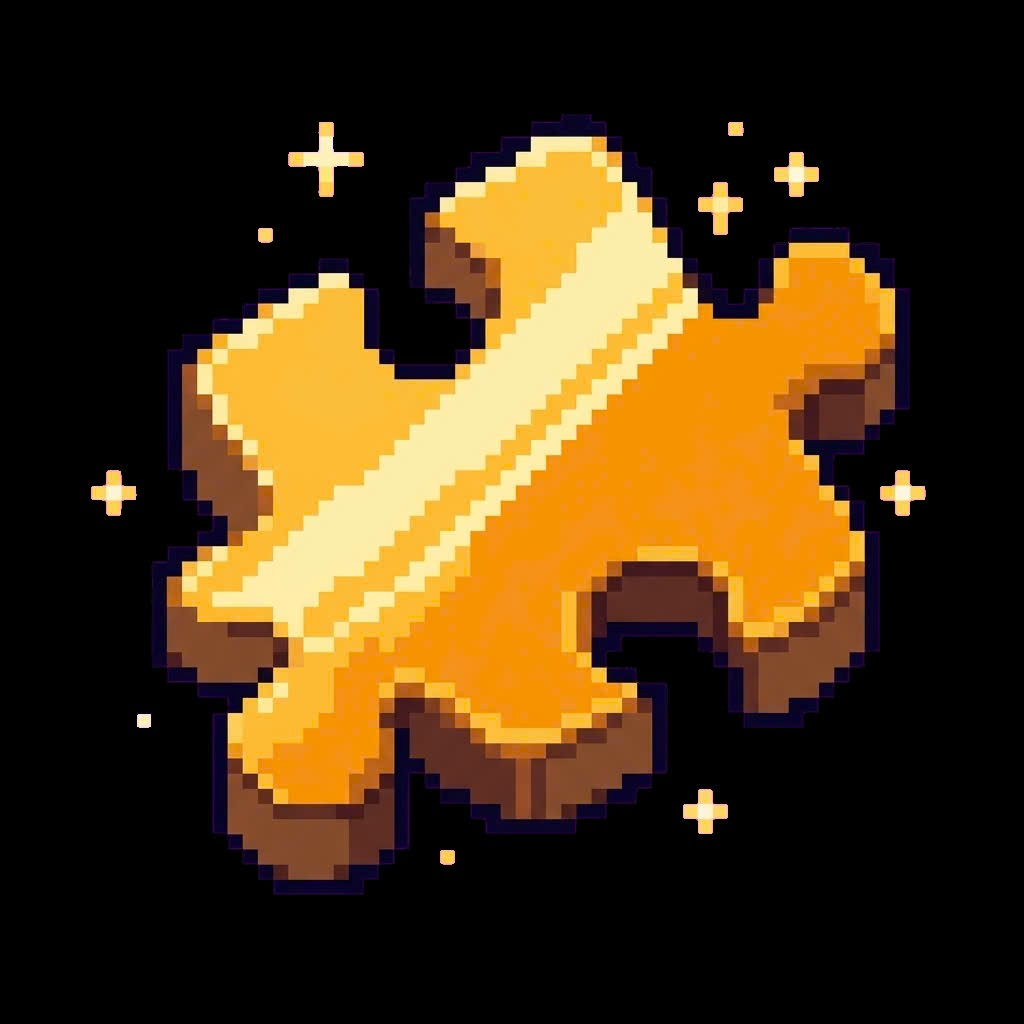
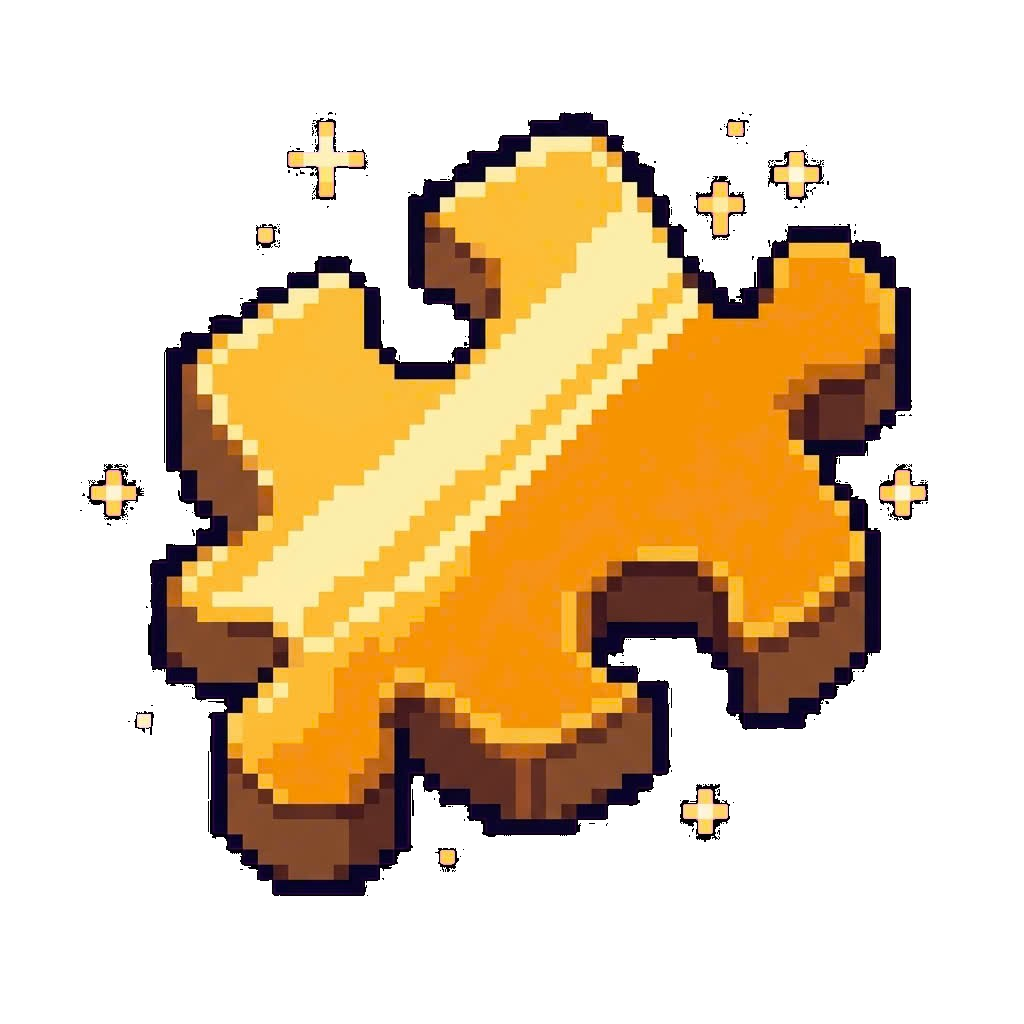
Update chest artwork and related UI components
Replit-Commit-Author: Agent

diff --git a/artifacts/vocabflow/components/CorviChestArtwork.tsx b/artifacts/vocabflow/components/CorviChestArtwork.tsx
@@ -1,77 +1,30 @@
-import React from 'react';
-import Svg, { Circle, Ellipse, Path, Rect } from 'react-native-svg';
+import React from "react";
+import { Image, Platform, type ImageStyle } from "react-native";
 
 interface CorviChestArtworkProps {
   size: number;
+  testID?: string;
 }
 
-/** Compact offline vector art for VocabFlow's glasses-wearing raven mascot. */
-export function CorviChestArtwork({ size }: CorviChestArtworkProps) {
+const pixelatedImageStyle =
+  Platform.OS === "web"
+    ? ({ imageRendering: "pixelated" } as unknown as ImageStyle)
+    : null;
+
+/** The supplied pixel-art chest used for Corvi's legendary chest. */
+export function CorviChestArtwork({ size, testID }: CorviChestArtworkProps) {
   return (
-    <Svg
-      width={size}
-      height={size}
-      viewBox="0 0 200 190"
+    <Image
+      testID={testID}
+      source={require("../assets/images/corvi-chest.png")}
       accessible
-      accessibilityLabel="Corvi, quạ đen bên rương Hắc Diệu Thạch"
-    >
-      <Ellipse cx="101" cy="174" rx="67" ry="8" fill="#08090B" opacity="0.48" />
-      <Path d="M23 83h28m124 0h19M25 45v33m7-33v33m7-33v33m7-33v33m112-33v33m7-33v33m7-33v33" fill="none" stroke="#424955" strokeWidth="2" opacity="0.72" />
-      <Path d="M22 43h33m104 0h33M20 85h35m104 0h35" fill="none" stroke="#767F8D" strokeWidth="2" opacity="0.72" />
-
-      <Path
-        d="M61 99c-13 1-27 13-34 28 18-6 31-5 43 1l13-19z"
-        fill="#20242B"
-        stroke="#AEB6C2"
-        strokeWidth="2"
-        strokeLinejoin="round"
-      />
-      <Path
-        d="M65 92c-9-13-7-33 3-46 11-15 31-23 49-18 14 4 24 14 28 27l27 9-28 10c-5 17-20 28-39 28-15 0-29-4-40-10z"
-        fill="#171A20"
-        stroke="#D7D9DE"
-        strokeWidth="2.5"
-        strokeLinejoin="round"
-      />
-      <Path
-        d="M72 82c10-14 28-19 44-12 8 4 14 11 17 19-10 8-23 13-38 12-10-1-19-5-27-11z"
-        fill="#292E37"
-        stroke="#767F8D"
-        strokeWidth="1.5"
-        strokeLinejoin="round"
-      />
-      <Path d="M85 84c9-7 19-8 28-3M92 91c8-4 16-4 23-1" fill="none" stroke="#AEB6C2" strokeWidth="1.5" strokeLinecap="round" />
-      <Path d="M141 54l29 10-29 8c3-6 3-12 0-18z" fill="#B7BEC9" stroke="#E7E9ED" strokeWidth="1.5" strokeLinejoin="round" />
-      <Circle cx="112" cy="55" r="8.5" fill="#171A20" stroke="#D7D9DE" strokeWidth="2" />
-      <Circle cx="131" cy="55" r="8.5" fill="#171A20" stroke="#D7D9DE" strokeWidth="2" />
-      <Circle cx="112" cy="55" r="3" fill="#E9B949" />
-      <Circle cx="131" cy="55" r="3" fill="#E9B949" />
-      <Path d="M120 54h3m17-3 8-5" fill="none" stroke="#D7D9DE" strokeWidth="2" strokeLinecap="round" />
-      <Path d="M82 91l17 10 5-5 6 5 16-10" fill="none" stroke="#AEB6C2" strokeWidth="2" strokeLinejoin="round" />
-      <Path d="M91 98l9 5-7 6-8-7zm20 0-9 5 7 6 8-7z" fill="#B63A46" stroke="#E7A0A5" strokeWidth="1.5" strokeLinejoin="round" />
-      <Circle cx="101" cy="103" r="2.5" fill="#E9B949" />
-      <Path d="M83 101l-4 10m18-9-2 10" fill="none" stroke="#D7D9DE" strokeWidth="2" strokeLinecap="round" />
-
-      <Path
-        d="M36 112l14-13 53 9 52-8 13 12-9 10H45z"
-        fill="#20242B"
-        stroke="#D7D9DE"
-        strokeWidth="2.5"
-        strokeLinejoin="round"
-      />
-      <Path d="M44 114h116l-7 10H51z" fill="#383E49" stroke="#9BA4B1" strokeWidth="1.5" strokeLinejoin="round" />
-      <Path
-        d="M51 124h102v42H51z"
-        fill="#111318"
-        stroke="#AEB6C2"
-        strokeWidth="2.5"
-        strokeLinejoin="round"
-      />
-      <Path d="M62 131v27m80-27v27" fill="none" stroke="#424955" strokeWidth="2" />
-      <Path d="M51 124h102v8H51z" fill="#292E37" />
-      <Rect x="91" y="134" width="22" height="21" rx="4" fill="#D7D9DE" />
-      <Path d="M102 140v8m-3-9a3 3 0 116 0" fill="none" stroke="#111318" strokeWidth="2" strokeLinecap="round" />
-      <Path d="M57 166h90" fill="none" stroke="#E7E9ED" strokeWidth="2" strokeLinecap="round" />
-    </Svg>
+      accessibilityLabel="Rương Corvi · Hắc Diệu Thạch"
+      resizeMode="contain"
+      resizeMethod="scale"
+      style={[
+        { width: size, height: size },
+        pixelatedImageStyle,
+      ]}
+    />
   );
 }

diff --git a/artifacts/vocabflow/app/(tabs)/blank.tsx b/artifacts/vocabflow/app/(tabs)/blank.tsx
@@ -20,6 +20,7 @@ import { ErrorBanner, F, MaterialSheen } from "@/components/ui";
 import { MissionCollectionTabs } from "@/components/MissionCollectionTabs";
 import { MissionShop } from "@/components/MissionShop";
 import { ChestTierArtwork } from "@/components/ChestTierArtwork";
+import { CorviChestArtwork } from "@/components/CorviChestArtwork";
 import { DailyMissionArtwork } from "@/components/DailyMissionArtwork";
 import CollectionScreen from "../collection";
 import {
@@ -388,7 +389,10 @@ export default function BlankScreen() {
                       { backgroundColor: c.headerButton },
                     ]}
                   >
-                    <Feather name="gift" size={19} color={c.accent} />
+                    <CorviChestArtwork
+                      size={38}
+                      testID="corvi-chest-progress-icon"
+                    />
                   </View>
                   <View style={styles.corviProgressCopy}>
                     <Text

diff --git a/artifacts/vocabflow/app/collection.tsx b/artifacts/vocabflow/app/collection.tsx
@@ -50,8 +50,8 @@ type FragmentRarity = "rare" | "epic" | "legendary";
 const FRAGMENT_RARITY_ORDER: FragmentRarity[] = ["epic", "rare", "legendary"];
 const STATUE_UNLOCK_COST = 10;
 const FRAGMENT_ICON_SOURCES: Record<FragmentRarity, ImageSourcePropType> = {
-  rare: require("../assets/images/puzzle-gold.png"),
-  epic: require("../assets/images/puzzle-silver.png"),
+  rare: require("../assets/images/puzzle-silver.png"),
+  epic: require("../assets/images/puzzle-gold.png"),
   legendary: require("../assets/images/puzzle-platinum.png"),
 };
 const pixelatedImageStyle =

diff --git a/artifacts/vocabflow/app/chest/[chestId].tsx b/artifacts/vocabflow/app/chest/[chestId].tsx
@@ -251,7 +251,10 @@ export default function MissionChestScreen() {
                   ]}
                 />
                 {chest.rarity === "legendary" ? (
-                  <CorviChestArtwork size={210} />
+                  <CorviChestArtwork
+                    size={210}
+                    testID="corvi-chest-open-artwork"
+                  />
                 ) : (
                   <ChestTierArtwork
                     rarity={chest.rarity}
